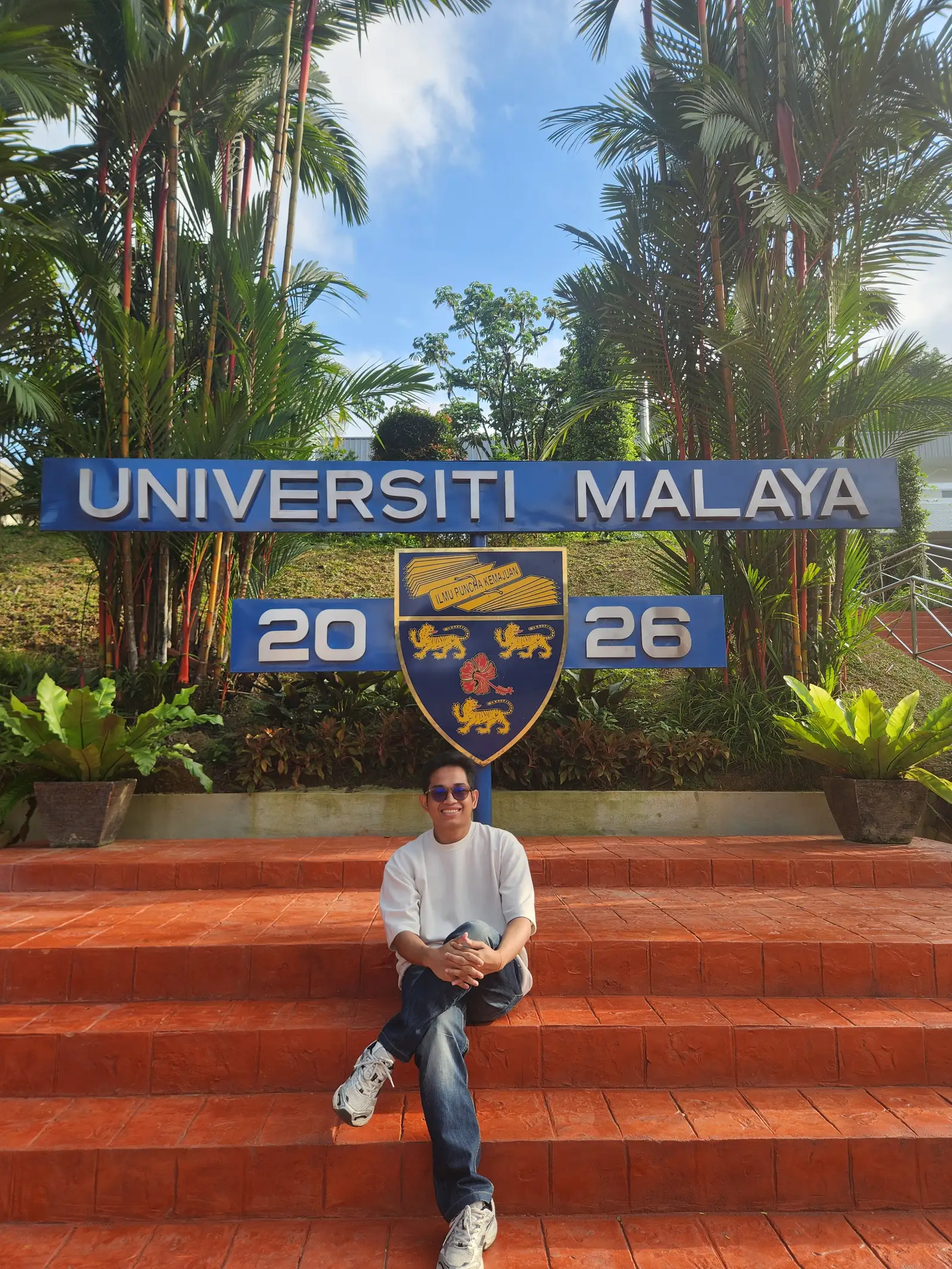
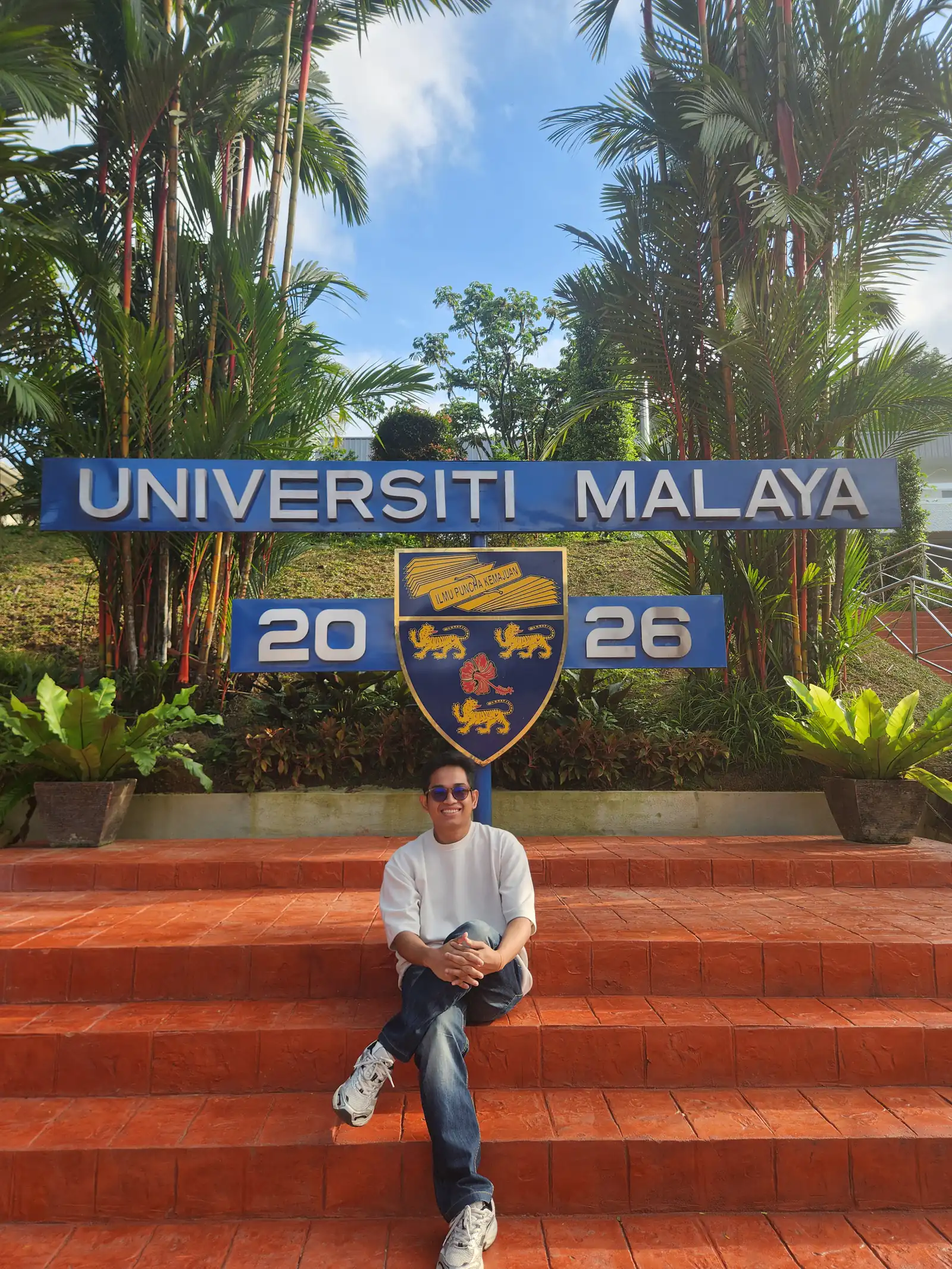
Add link preview image, crawler files, 404 page and PDF properties
- Open Graph and Twitter card tags with a 1200 x 630 preview image
  (public/og.jpg, rendered by scripts/build-og.mjs), so links shared on
  LinkedIn and WhatsApp show the name, role and portrait.
- robots.txt and sitemap.xml with hreflang alternates.
- Bilingual 404 page, not indexed. The test server now mimics GitHub
  Pages and serves it for unknown paths.
- PDFs carry author, title, subject, keywords and language.
- Favicon in the site accent colour plus an apple-touch-icon.
- Universiti Malaya photo recompressed (157 to 111 KB at 800 px).
- JSON-LD gains image and alumniOf. tests/seo.spec.ts covers all of it.

diff --git a/tests/seo.spec.ts b/tests/seo.spec.ts
@@ -1,0 +1,81 @@
+import { test, expect } from '@playwright/test';
+import AxeBuilder from '@axe-core/playwright';
+import { PDFDocument } from 'pdf-lib';
+
+// Link previews, crawler files, the 404 page and PDF document properties. Viewport independent
+// except the 404 layout, so most checks run in one project only.
+const once = (name: string) => test.skip(name !== 'laptop-1024', 'viewport independent, runs once');
+
+for (const path of ['/', '/id/']) {
+  test(`${path} has Open Graph and Twitter card tags with a working 1200 x 630 image`, async ({ page, request }, info) => {
+    once(info.project.name);
+    await page.goto(path);
+    const meta = (sel: string) => page.locator(sel).getAttribute('content');
+    const image = await meta('meta[property="og:image"]');
+    expect(image).toBe('https://rfiki17.github.io/og.jpg');
+    expect(await meta('meta[property="og:image:width"]')).toBe('1200');
+    expect(await meta('meta[property="og:image:height"]')).toBe('630');
+    expect(await meta('meta[property="og:image:alt"]')).toMatch(/Rifki Hidayatullah/);
+    expect(await meta('meta[name="twitter:card"]')).toBe('summary_large_image');
+    expect(await meta('meta[property="og:url"]')).toBe(`https://rfiki17.github.io${path}`);
+    const res = await request.get('/og.jpg');
+    expect(res.status()).toBe(200);
+    expect(res.headers()['content-type']).toContain('image/jpeg');
+    const body = await res.body();
+    expect(body.length).toBeGreaterThan(20_000);
+    expect(body.length).toBeLessThan(300_000); // WhatsApp drops previews from large images
+  });
+}
+
+test('robots.txt allows crawling and points to the sitemap', async ({ request }, info) => {
+  once(info.project.name);
+  const res = await request.get('/robots.txt');
+  expect(res.status()).toBe(200);
+  const text = await res.text();
+  expect(text).toContain('Allow: /');
+  expect(text).toContain('Sitemap: https://rfiki17.github.io/sitemap.xml');
+});
+
+test('sitemap.xml lists both languages with hreflang alternates', async ({ request }, info) => {
+  once(info.project.name);
+  const res = await request.get('/sitemap.xml');
+  expect(res.status()).toBe(200);
+  const xml = await res.text();
+  expect(xml).toContain('<loc>https://rfiki17.github.io/</loc>');
+  expect(xml).toContain('<loc>https://rfiki17.github.io/id/</loc>');
+  expect(xml.match(/hreflang="id"/g)).toHaveLength(2);
+});
+
+test('unknown paths show the 404 page with links back to the CV', async ({ page }) => {
+  const res = await page.goto('/this-page-does-not-exist');
+  expect(res!.status()).toBe(404);
+  await expect(page.locator('meta[name="robots"]')).toHaveAttribute('content', 'noindex');
+  await expect(page.locator('link[rel="canonical"]')).toHaveCount(0);
+  await expect(page.getByRole('heading', { level: 1 })).toHaveText('This page does not exist.');
+  await expect(page.getByRole('link', { name: 'Go to the CV' })).toHaveAttribute('href', '/');
+  await expect(page.getByRole('link', { name: 'Buka CV (Bahasa Indonesia)' })).toHaveAttribute('href', '/id/');
+  const overflow = await page.evaluate(() => document.documentElement.scrollWidth - document.documentElement.clientWidth);
+  expect(overflow).toBeLessThanOrEqual(0);
+  const axe = await new AxeBuilder({ page }).withTags(['wcag2a', 'wcag2aa', 'wcag21aa', 'wcag22aa']).analyze();
+  expect(axe.violations.map((v) => v.id)).toEqual([]);
+});
+
+for (const f of ['QA-EN', 'QA-ID', 'GRC-EN', 'GRC-ID']) {
+  test(`PDF ${f} carries author, title, subject and keywords`, async ({ request }, info) => {
+    once(info.project.name);
+    const res = await request.get(`/cv/Rifki-Hidayatullah-CV-${f}.pdf`);
+    const doc = await PDFDocument.load(await res.body(), { updateMetadata: false });
+    expect(doc.getAuthor()).toBe('Rifki Hidayatullah');
+    expect(doc.getTitle()).toMatch(/^Rifki Hidayatullah, CV /);
+    expect(doc.getSubject()).toMatch(/^Curriculum vitae, /);
+    expect(doc.getKeywords()).toMatch(f.startsWith('QA') ? /Playwright/ : /COBIT 2019/);
+  });
+}
+
+test('favicon and touch icon are served', async ({ request }, info) => {
+  once(info.project.name);
+  expect((await request.get('/favicon.svg')).status()).toBe(200);
+  const touch = await request.get('/apple-touch-icon.png');
+  expect(touch.status()).toBe(200);
+  expect(touch.headers()['content-type']).toContain('image/png');
+});

diff --git a/src/styles/global.css b/src/styles/global.css
@@ -259,3 +259,9 @@ html.js .to-top:not(.show) { opacity: 0; visibility: hidden; }
   section.s { padding: 18px 0; break-inside: auto; }
   .item { break-inside: avoid; padding: 10px 0; }
 }
+
+/* 404 page */
+.notfound { padding: 12vh 0 16vh; max-width: 40rem; }
+.nf-title { margin: 16px 0 20px; font-size: clamp(2.4rem, 7vw, 4.5rem); line-height: 0.95; font-weight: 800; font-stretch: 80%; letter-spacing: -0.035em; }
+.nf-text { color: var(--muted); font-size: 1.1rem; margin: 0 0 8px; }
+.nf-links { display: flex; flex-wrap: wrap; gap: 10px; margin-top: 28px; }

diff --git a/README.md b/README.md
@@ -54,3 +54,10 @@ Playwright is pinned to 1.65.1. With 1.60 on Node 26, worker processes hung for 
 ## Deploy
 
 `.github/workflows/deploy.yml` runs the tests on every push and pull request and deploys to GitHub Pages from `main` only when they pass. In the repository settings, set Pages source to **GitHub Actions**.
+
+## Link preview, crawlers and 404
+
+- `public/og.jpg` (1200 x 630) is the image shown when the site is shared on LinkedIn, WhatsApp or email. It is rendered from the portrait and the site font by `node scripts/build-og.mjs`. Run it again after the portrait or the role changes.
+- `public/robots.txt` and `public/sitemap.xml` are static. Update `lastmod` in the sitemap after a larger content change.
+- `src/pages/404.astro` becomes `dist/404.html`, which GitHub Pages serves for unknown paths. It is not indexed.
+- The PDFs carry author, title, subject, keywords and language (set with pdf-lib in `scripts/build-pdf.mjs`).
